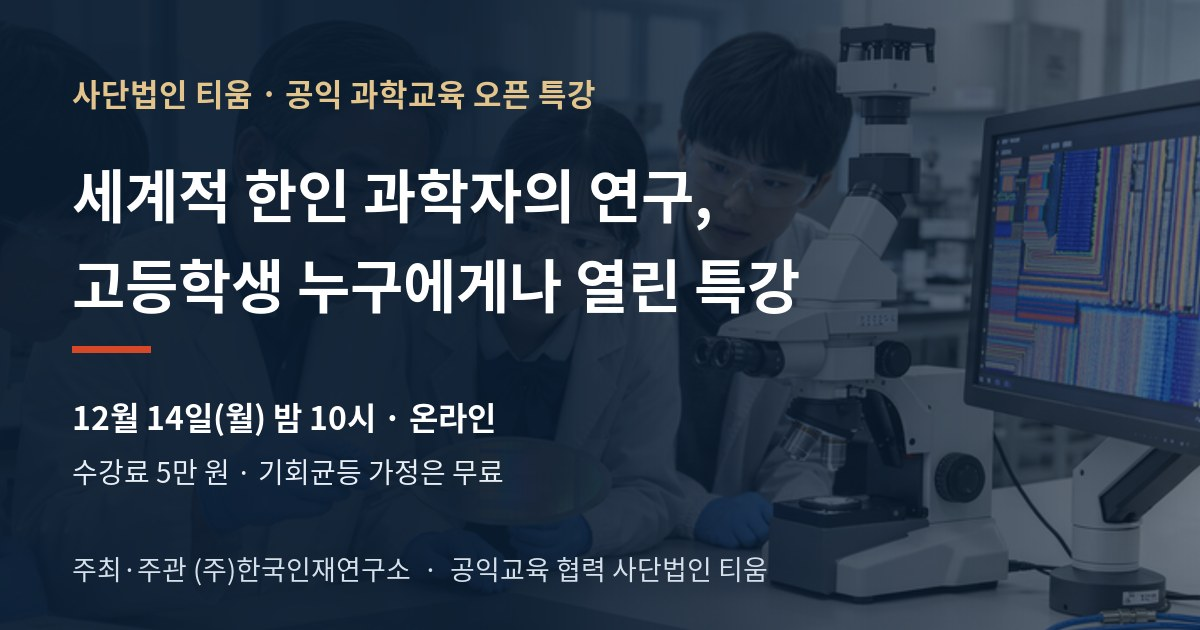
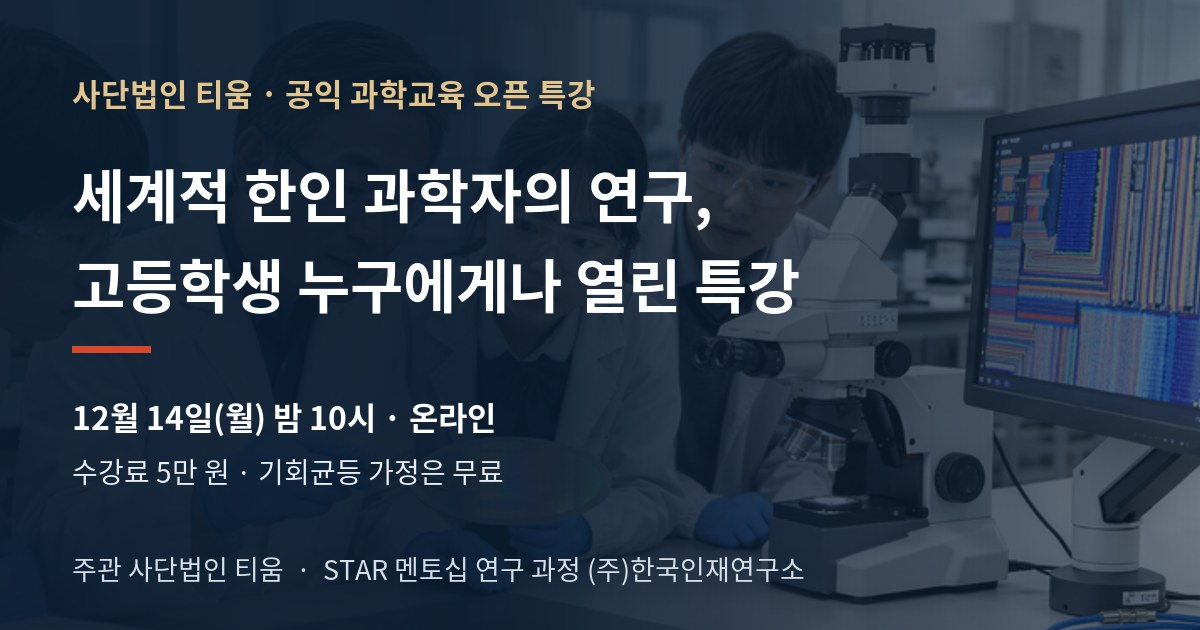
STAR 오픈 특강: 사단법인 티움 주관으로 표기 통일

Changed region(s): [[0.0617, 0.8746, 0.6783, 0.9349]]

diff --git a/star/index.html b/star/index.html
@@ -10,7 +10,7 @@
   <meta property="og:site_name"   content="사단법인 티움" />
   <meta property="og:title"       content="STAR 오픈 특강 — 세계적 한인 과학자의 연구, 고등학생 누구에게나 열린 특강" />
   <meta property="og:description" content="재미 한인 교수진이 실제 연구 주제를 직접 강의하는 온라인 특강. 12월 14일(월) 밤 10시 · 수강료 5만 원 · 기회균등 가정은 무료." />
-  <meta property="og:image"       content="https://tieum.org/star/og.jpg" />
+  <meta property="og:image"       content="https://tieum.org/star/og.jpg?v=2" />
   <meta property="og:image:width" content="1200" />
   <meta property="og:image:height" content="630" />
   <meta property="og:url"         content="https://tieum.org/star/" />
@@ -188,7 +188,7 @@
         <a class="st-btn st-btn-gold" href="https://docs.google.com/forms/d/e/1FAIpQLSeHwA9fpl-YuQPyCOLN1bhala5iRHkgCHJNO8P29wlxzcTjeQ/viewform" target="_blank" rel="noopener">오픈 특강 신청하기 →</a>
         <a class="st-btn st-btn-line" href="#research">실제 연구 과정 참여 안내</a>
       </div>
-      <p class="st-org">주최·주관 <b>(주)한국인재연구소</b> &nbsp;·&nbsp; 공익교육 협력 <b>사단법인 티움</b></p>
+      <p class="st-org">오픈 특강 주관 <b>사단법인 티움</b> &nbsp;·&nbsp; STAR 멘토십 연구 과정 주최·주관 <b>(주)한국인재연구소</b></p>
     </div>
   </section>
 
@@ -197,7 +197,7 @@
     <div class="st-wrap">
       <span class="st-kicker">WHY TIEUM</span>
       <h2 class="st-h2">세계 수준의 연구를 만나는 첫 경험,<br>더 많은 학생에게</h2>
-      <p class="st-sub">최고의 과학자를 직접 만나는 기회는 지금까지 일부 학생에게만 주어져 왔습니다. 티움은 그 문을 넓히는 공익교육 협력기관으로 오픈 특강에 함께합니다.</p>
+      <p class="st-sub">최고의 과학자를 직접 만나는 기회는 지금까지 일부 학생에게만 주어져 왔습니다. 그 문을 넓히기 위해 사단법인 티움이 오픈 특강을 주관합니다.</p>
       <div class="st-values">
         <div class="st-value">
           <span class="n">1</span>
@@ -336,7 +336,7 @@
 
 <footer class="st-foot">
   <div class="st-wrap">
-    STAR 멘토십은 (주)한국인재연구소가 주최·주관하고, 비영리 사단법인 티움이 공익교육 협력 기관으로 참여합니다.<br>
+    STAR 오픈 특강은 사단법인 티움이 주관합니다. STAR 멘토십 연구 과정은 (주)한국인재연구소가 주최·주관하고, 비영리 사단법인 티움이 공익교육 협력 기관으로 참여합니다.<br>
     &copy; 2026 사단법인 티움(TIEUM) · 고유번호 454-82-00464 · 서울특별시 서초구 효령로 57길 3 ·
     <a href="../index.html">티움 홈으로</a> · <a href="../privacy.html">개인정보 처리방침</a>
   </div>
